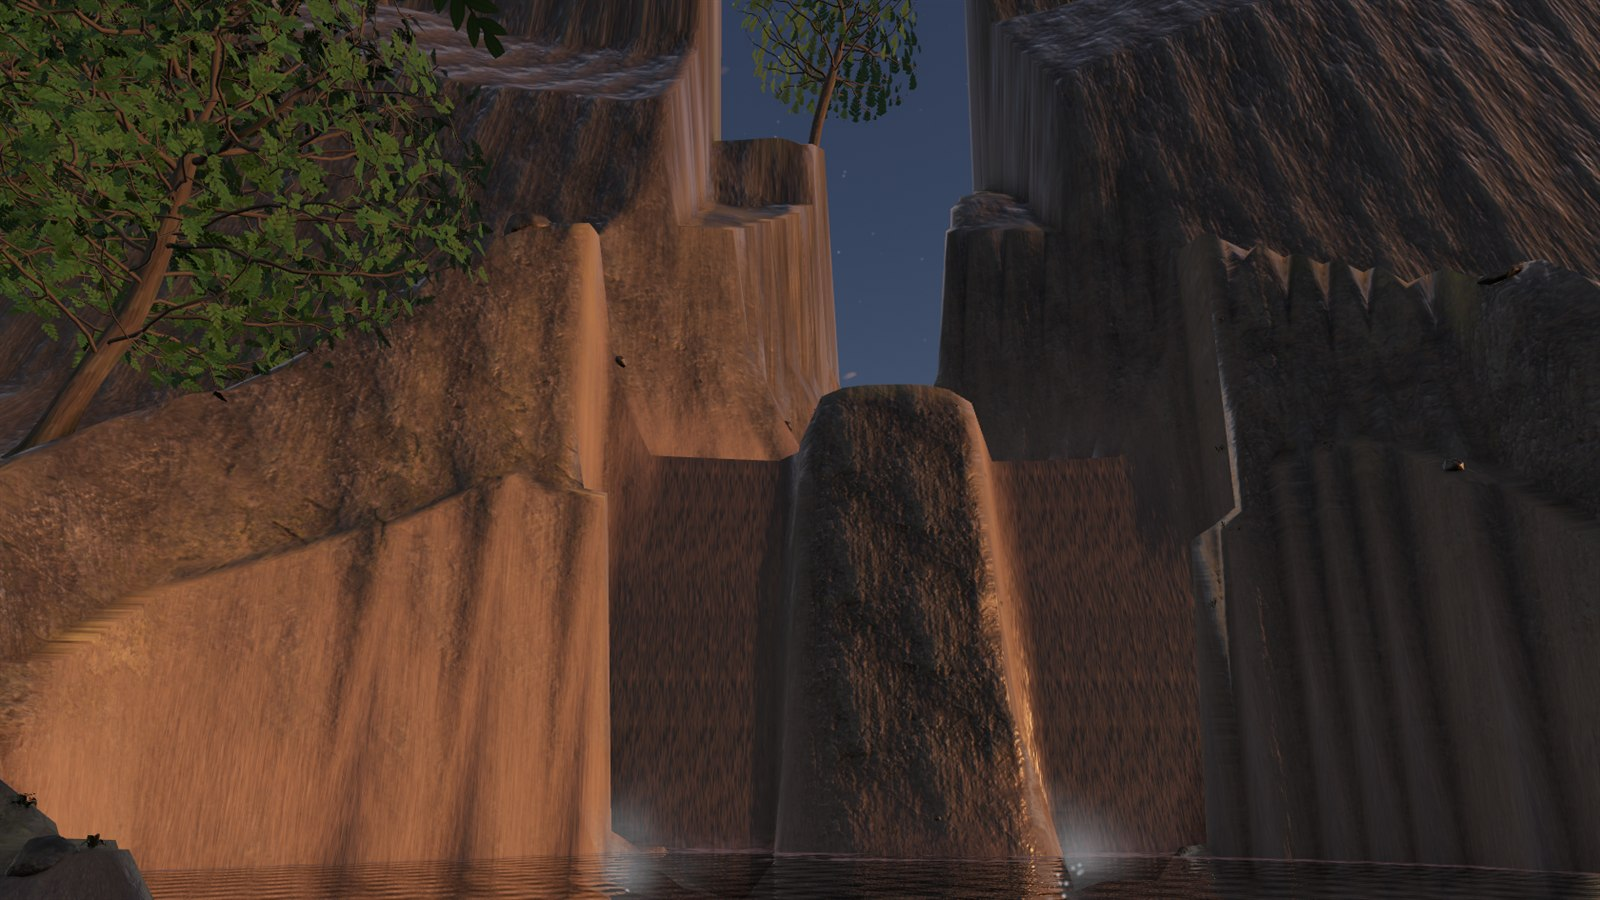
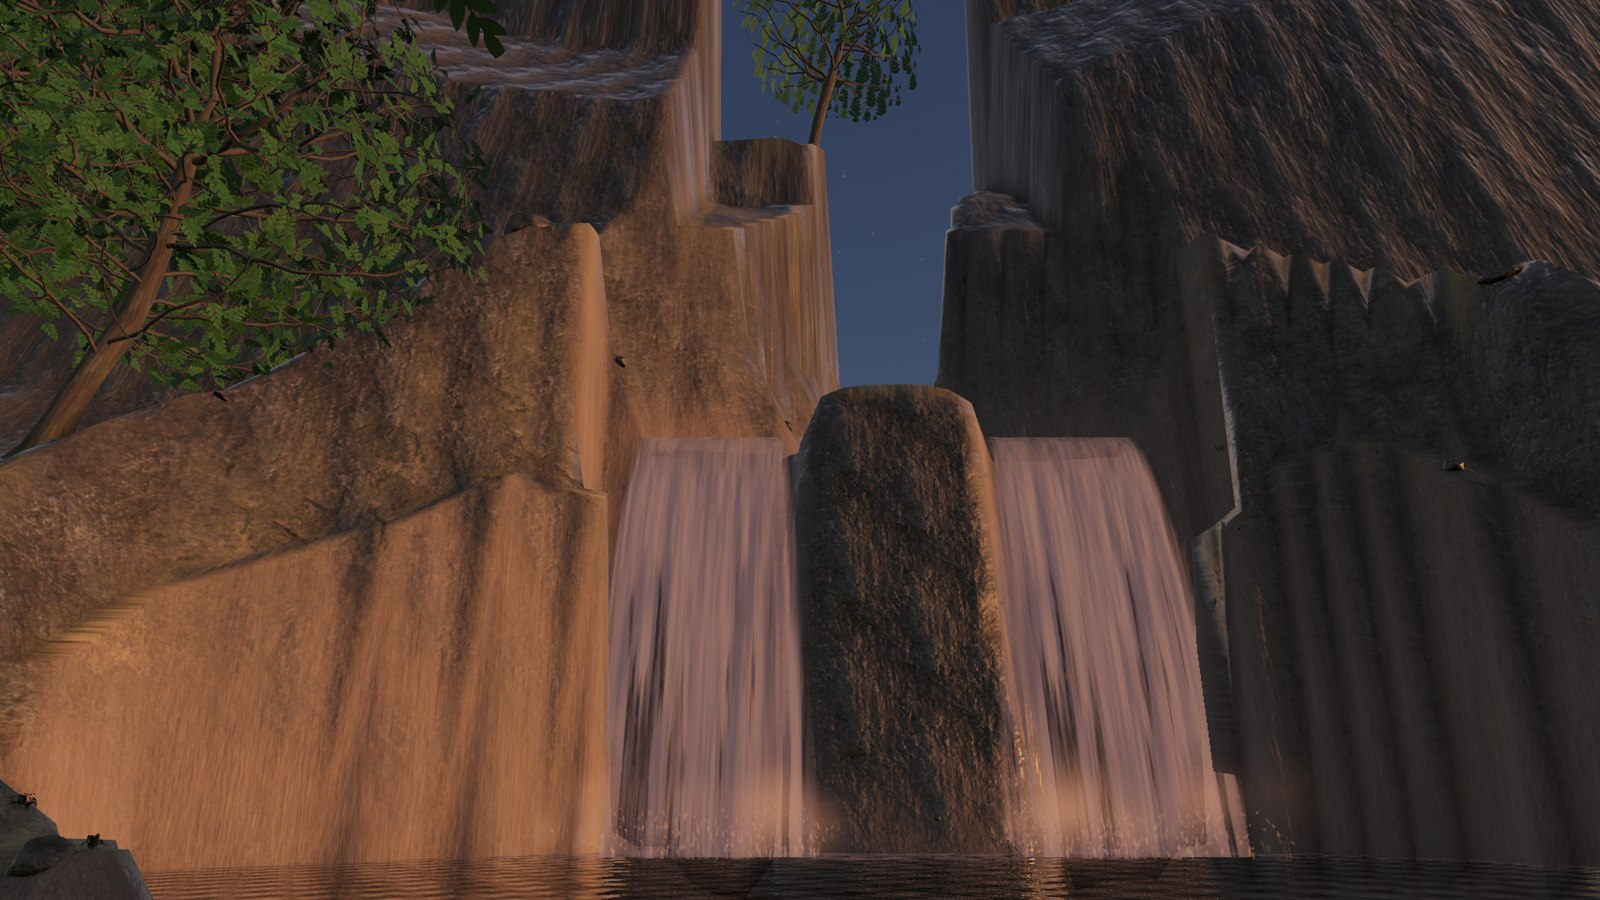
渓のほとりの滝の写真を差し替え

Changed region(s): [[0.0938, 0.4667, 0.5625, 1.0], [0.5625, 0.4667, 0.7812, 1.0], [0.9688, 0.9956, 1.0, 1.0]]

diff --git a/works/work05.html b/works/work05.html
@@ -174,7 +174,7 @@
         <h2 class="section-title">スクリーンショット</h2>
         <div class="gallery">
           <figure>
-            <img class="thumb" src="../images/work05/waterfall.jpg" alt="滝つぼの浜から見上げた、岩の柱を挟んで二股に落ちる滝" loading="lazy">
+            <img class="thumb" src="../images/work05/waterfall.jpg" alt="滝つぼの浜から見上げた、岩の柱を挟んで二股に落ちる白い滝" loading="lazy">
             <figcaption>見上げる二股の滝</figcaption>
           </figure>
           <figure>
@@ -182,7 +182,7 @@
             <figcaption>雨の日の拠点</figcaption>
           </figure>
           <figure>
-            <img class="thumb" src="../images/work05/mist.jpg" alt="夜明けの赤い光が当たる二股の滝の岩壁" loading="lazy">
+            <img class="thumb" src="../images/work05/mist.jpg" alt="夜明けの赤い光が当たる二股の滝と岩壁" loading="lazy">
             <figcaption>夜明けの光が当たる二股の滝</figcaption>
           </figure>
         </div>

diff --git a/index.html b/index.html
@@ -103,7 +103,7 @@
           </a>
 
           <a class="work-card" href="works/work05.html">
-            <img class="thumb" src="images/work05/title.jpg" alt="渓のほとりの景色。苔むした岸と岩の間を流れる渓流と、奥の滝の岩壁">
+            <img class="thumb" src="images/work05/title.jpg" alt="渓のほとりの景色。苔むした岸と岩の間を流れる渓流と、奥の岩壁に落ちる白い滝">
             <div class="body">
               <h3>渓のほとり</h3>
               <p>山あいの渓流を歩いて景色を眺める<span class="keep">チルゲーム</span>（制作中）</p>
